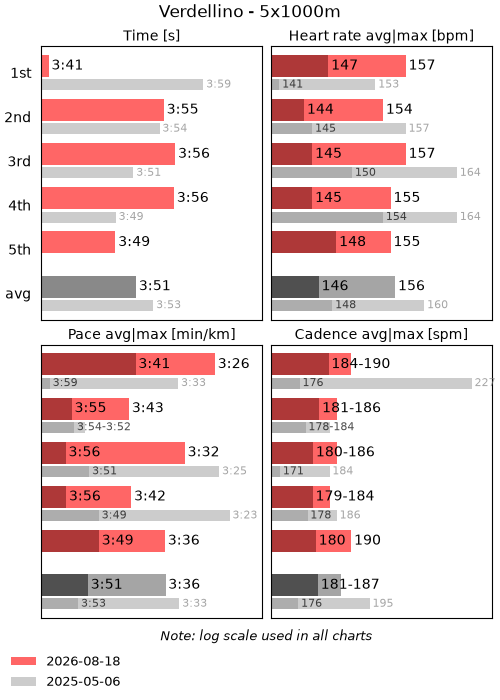
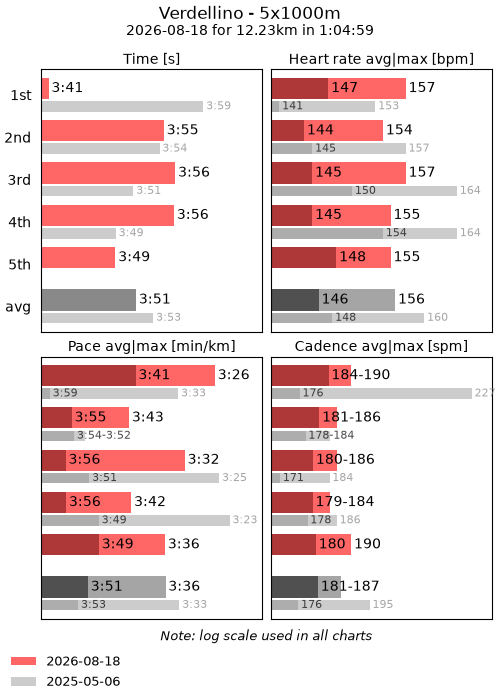
feat(sport-analysis): better title and subtitle in run and ride plots

Changed region(s): [[0.0, 0.0, 0.99, 0.9]]

diff --git a/projects/sport-analysis/sport_analysis/plot/plot_interval_run_api/plot_interval_run_api_cmd.py b/projects/sport-analysis/sport_analysis/plot/plot_interval_run_api/plot_interval_run_api_cmd.py
@@ -5,7 +5,6 @@ from statistics import mean
 from typing import Sequence
 
 import datetime_utils
-import log_utils as logger
 import matplotlib.pyplot as plt
 import number_utils
 import numpy as np
@@ -20,6 +19,7 @@ from matplotlib.figure import Figure
 
 from ...base_cli_view import ConsoleAdapter
 from .. import base_api, base_plot
+from ..base_plot import _make_subtitle, _make_title
 
 console = ConsoleAdapter()
 
@@ -777,12 +777,27 @@ class PlotIntervalRunApiCmd(base_api.MixinGarminRequestsApi, base_plot.MixinBarH
         self._plot_hr()
         self._write_note_on_log_scale()
 
-        title = (
-            self.title
-            if self.title is not None
-            else self._s[0].summary_resp.data["activityName"]
+        # Title and subtitle.
+        title = _make_title(
+            activity_original_title=self._s[0].summary_resp.data["activityName"],
+            custom_title=self.title,
         )
-        figure.suptitle(title)
+        figure.suptitle(title + "\n  ")
+        subtitle = _make_subtitle(
+            activity_original_start_time_local=self._s[0].summary_resp.summary[
+                "startTimeLocal"
+            ],
+            activity_original_duration=self._s[0].summary_resp.summary["duration"],
+            activity_original_distance=self._s[0].summary_resp.summary["distance"],
+        )
+        figure.text(
+            figure.get_figwidth() / 2,  # Inches.
+            figure.get_figheight() - 0.35,  # Inches.
+            subtitle,
+            fontsize=10,
+            horizontalalignment="center",
+            transform=figure.dpi_scale_trans,  # Use inches as figure size.
+        )
 
         # Docs on legend location:
         #  https://matplotlib.org/stable/users/explain/axes/legend_guide.html

diff --git a/projects/sport-analysis/sport_analysis/plot/plot_ride_api/plot_simple_ride_api.py b/projects/sport-analysis/sport_analysis/plot/plot_ride_api/plot_simple_ride_api.py
@@ -16,7 +16,7 @@ from ...base_cli_view import ACTIVITY_ID_TYPE, BaseClickCommand
 from ...conf import settings
 from ...conf.settings_module import ROOT_DIR
 from .. import base_api, base_plot
-from ..base_plot import PERCENTILE_TO_DRAW_ENUM
+from ..base_plot import PERCENTILE_TO_DRAW_ENUM, _make_subtitle, _make_title
 
 
 @click.command(
@@ -207,12 +207,27 @@ class PlotSimpleRideApi(base_api.MixinGarminRequestsApi, base_plot.MixinHrPlot):
         self._plot_hr_histogram()
         self._plot_hr_zones()
 
-        title = (
-            self.title
-            if self.title is not None
-            else self._s[0].summary_resp.data["activityName"]
+        # Title and subtitle.
+        title = _make_title(
+            activity_original_title=self._s[0].summary_resp.data["activityName"],
+            custom_title=self.title,
         )
-        figure.suptitle(title)
+        figure.suptitle(title + "\n  ")
+        subtitle = _make_subtitle(
+            activity_original_start_time_local=self._s[0].summary_resp.summary[
+                "startTimeLocal"
+            ],
+            activity_original_duration=self._s[0].summary_resp.summary["duration"],
+            activity_original_distance=self._s[0].summary_resp.summary["distance"],
+        )
+        figure.text(
+            figure.get_figwidth() / 2,  # Inches.
+            figure.get_figheight() - 0.35,  # Inches.
+            subtitle,
+            fontsize=10,
+            horizontalalignment="center",
+            transform=figure.dpi_scale_trans,  # Use inches as figure size.
+        )
 
         # Docs on legend location:
         #  https://matplotlib.org/stable/users/explain/axes/legend_guide.html

diff --git a/projects/sport-analysis/sport_analysis/plot/plot_ride_api/plot_climb_ride_api.py b/projects/sport-analysis/sport_analysis/plot/plot_ride_api/plot_climb_ride_api.py
@@ -26,7 +26,7 @@ from ...search.search_matching_activity_api import (
     search_strava_activity_matching_garmin_activity_api,
 )
 from .. import base_api, base_plot
-from ..base_plot import PERCENTILE_TO_DRAW_ENUM
+from ..base_plot import PERCENTILE_TO_DRAW_ENUM, _make_subtitle, _make_title
 
 
 @click.command(
@@ -403,12 +403,27 @@ class PlotClimbRideApi(base_api.MixinGarminRequestsApi, base_plot.MixinHrPlot):
         self._plot_hr_histogram()
         self._plot_hr_zones()
 
-        title = (
-            self.title
-            if self.title is not None
-            else self._s[0].summary_resp.data["activityName"]
+        # Title and subtitle.
+        title = _make_title(
+            activity_original_title=self._s[0].summary_resp.data["activityName"],
+            custom_title=self.title,
         )
-        figure.suptitle(title)
+        figure.suptitle(title + "\n  ")
+        subtitle = _make_subtitle(
+            activity_original_start_time_local=self._s[0].summary_resp.summary[
+                "startTimeLocal"
+            ],
+            activity_original_duration=self._s[0].summary_resp.summary["duration"],
+            activity_original_distance=self._s[0].summary_resp.summary["distance"],
+        )
+        figure.text(
+            figure.get_figwidth() / 2,  # Inches.
+            figure.get_figheight() - 0.35,  # Inches.
+            subtitle,
+            fontsize=10,
+            horizontalalignment="center",
+            transform=figure.dpi_scale_trans,  # Use inches as figure size.
+        )
 
         # Docs on legend location:
         #  https://matplotlib.org/stable/users/explain/axes/legend_guide.html

diff --git a/projects/sport-analysis/sport_analysis/plot/plot_run_api/base_plot_run_api.py b/projects/sport-analysis/sport_analysis/plot/plot_run_api/base_plot_run_api.py
@@ -26,7 +26,7 @@ from rich.table import Table
 from ...base_cli_view import ConsoleAdapter
 from ...conf import settings
 from .. import base_api, base_plot
-from ..base_plot import PERCENTILE_TO_DRAW_ENUM
+from ..base_plot import PERCENTILE_TO_DRAW_ENUM, _make_subtitle, _make_title
 
 console = ConsoleAdapter()
 
@@ -420,10 +420,26 @@ class BasePlotRunApi(ABC, base_api.MixinGarminRequestsApi, base_plot.MixinHrPlot
         self._plot_hr_zones()
         self._plot_hr_histogram()
 
-        title = (
-            self.title
-            if self.title is not None
-            else self._s[0].summary_resp.data["activityName"]
+        # Title and subtitle.
+        title = _make_title(
+            activity_original_title=self._s[0].summary_resp.data["activityName"],
+            custom_title=self.title,
+        )
+        figure.suptitle(title + "\n  ")
+        subtitle = _make_subtitle(
+            activity_original_start_time_local=self._s[0].summary_resp.summary[
+                "startTimeLocal"
+            ],
+            activity_original_duration=self._s[0].summary_resp.summary["duration"],
+            activity_original_distance=self._s[0].summary_resp.summary["distance"],
+        )
+        figure.text(
+            figure.get_figwidth() / 2,  # Inches.
+            figure.get_figheight() - 0.35,  # Inches.
+            subtitle,
+            fontsize=10,
+            horizontalalignment="center",
+            transform=figure.dpi_scale_trans,  # Use inches as figure size.
         )
 
         # Docs on legend location:

diff --git a/projects/sport-analysis/sport_analysis/plot/base_plot.py b/projects/sport-analysis/sport_analysis/plot/base_plot.py
@@ -8,6 +8,7 @@ from statistics import mean
 import datetime_utils
 import matplotlib as mpl
 import numpy as np
+import text_utils
 from matplotlib.axes import Axes
 from rich import box
 from rich.table import Table
@@ -839,3 +840,23 @@ def _make_percentile_text(
     # Mathtext info: https://matplotlib.org/stable/users/explain/text/mathtext.html.
     math_txt = rf"P$_{{{percentile_perc}}}$ at {percentile_bpm}bpm | {perc_of_max_txt} | P$_{{{p_in_zone}}}$ Z{zone_num} | {bpm_diff_txt}"
     return PercentileText(plain_txt, math_txt)
+
+
+def _make_title(
+    activity_original_title: str,
+    custom_title: str | None = None,
+):
+    ACTIVITY_NAME_MAX_LENGTH = 50
+    title = custom_title if custom_title is not None else activity_original_title
+    title = text_utils.truncate_text(title, ACTIVITY_NAME_MAX_LENGTH)
+
+    return title
+
+
+def _make_subtitle(
+    activity_original_start_time_local: str,
+    activity_original_duration: int,
+    activity_original_distance: int,
+):
+    subtitle = f"{activity_original_start_time_local[:10]} for {round(activity_original_distance / 1000, 2)}km in {datetime_utils.seconds_to_hh_mm_ss(round(activity_original_duration))}"
+    return subtitle

diff --git a/projects/sport-analysis/TODO.md b/projects/sport-analysis/TODO.md
@@ -1,15 +1,10 @@
 
 
-
-- Aggiungi al titolo: 24.95km in 1:54:33
-    Fatto, ma dove posso mettere _make_title() e _make_subtitle() in modo che sia usata
-     anche in ride e interval run?
-
 - climb ride con segment: scrivere "Segment Selvino Fontanella" come titolo del chart in basso
    e non dentro il chart perchè si sovrappone al HR avg
 
 - Time in zones: Z0=0% Z1=0%
-   Usa |: Z0 0% | Z1 0% | ...
+   Prova ad usare "|": Z0 0% | Z1 0% | ...
 
 - usa sempre domande interattive, dovunque ma in particolare per interval run
   vedi qto già fatto in `search_strava_api_cli.py`
